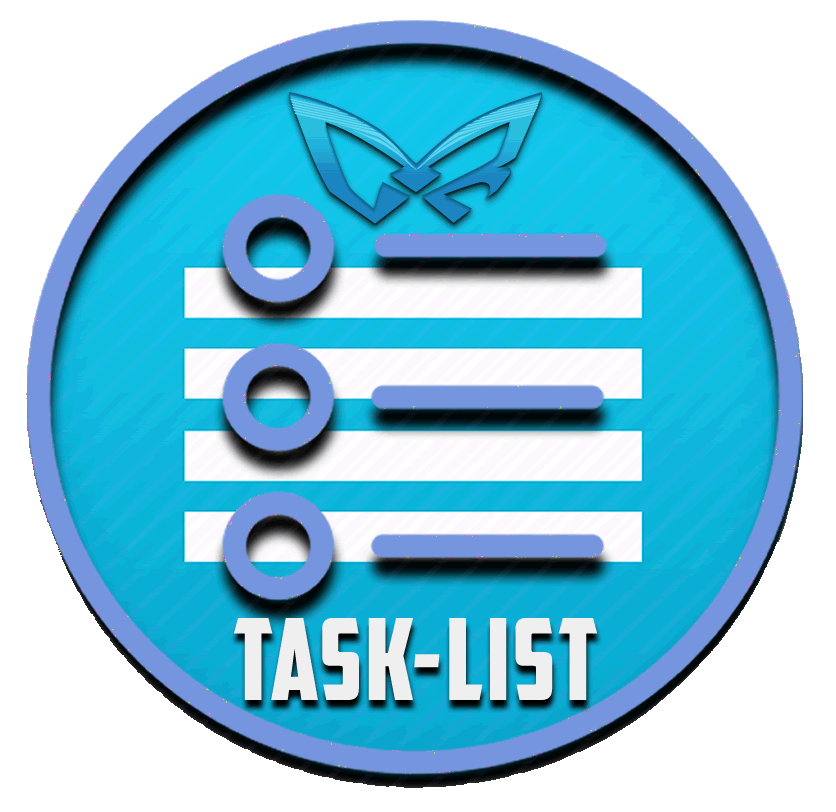
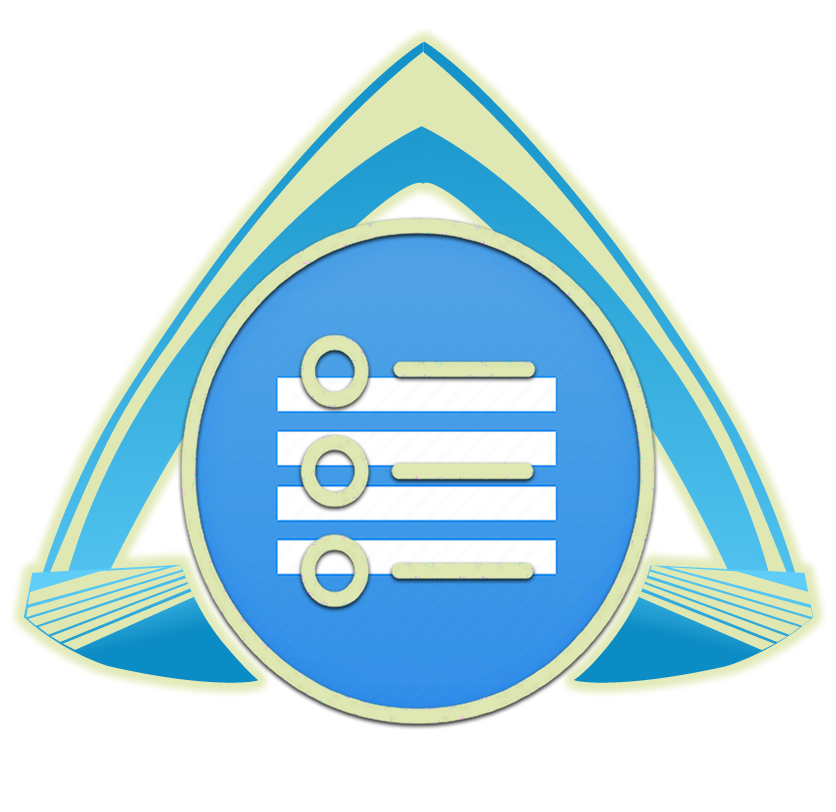
corrections update of badge, when task is edited by home

diff --git a/www/js/controllers/task.controller.js b/www/js/controllers/task.controller.js
@@ -1,6 +1,6 @@
 app.controller('TaskController', [
-    '$scope', '$ionicModal', '$ionicListDelegate', '$ionicPopup', '$ionicHistory','$state','$ionicPlatform','$cordovaBadge',
-    function($scope,$ionicModal,$ionicListDelegate,$ionicPopup, $ionicHistory,$state, $ionicPlatform, $cordovaBadge)
+    '$scope', '$ionicModal', '$ionicListDelegate', '$ionicPopup', '$ionicHistory','$state',
+    function($scope,$ionicModal,$ionicListDelegate,$ionicPopup, $ionicHistory,$state)
     {
         var task = new Task();
         var labels = app.appLabels;
@@ -11,37 +11,9 @@ app.controller('TaskController', [
         $scope.showRemove = false;    
         $scope.delPop = null;
 
-        $scope.addBadge = function(value)
-        {
-            if( window.cordova )
-            {                
-                $ionicPlatform.ready(function()
-                {
-                    $cordovaBadge.hasPermission().then(function(yes) 
-                    {
-                        var action;
-                        if( value == 0 ) 
-                            action = $cordovaBadge.clear();
-                        else 
-                            action = $cordovaBadge.set(value);
-
-                        action.then(function() {}, function(err) {
-                            $ionicPopup.alert({title: 'error', template: 'error on manage badge!'});
-                        });
-                    }, function(no) {
-                        $ionicPopup.alert({title: 'error', template: 'Without permission'});
-                    });
-                });
-            }            
-        };
-
         $scope.find = function()
         {
             $scope.tasks = task.getTasks();
-            var openeds = $scope.tasks.filter(function(row){ return row.situation == 1; });
-            // var openeds = $scope.tasks.filter(row => row.situation == 1);
-            
-            $scope.addBadge(openeds.length);
         }
         $scope.findOne = function()
         {
@@ -70,6 +42,7 @@ app.controller('TaskController', [
                     text: '<b>OK</b>',
                     type: 'button-positive', 
                     onTap: function(e){
+                        $scope.$root.openedTask = task.allOpened();
                         $ionicHistory.goBack();
                     }
                 }]
@@ -95,8 +68,9 @@ app.controller('TaskController', [
                             type: 'button-positive', 
                             onTap: function(e){
                                 $scope.delPop = null;
-                                task.remove(index);
-                                $scope.find();
+                                $scope.$root.openedTask = task.allOpened();
+                                task.remove(index);                                
+                                $scope.find();                                
                             }
                         }
                     ]

diff --git a/www/js/app.js b/www/js/app.js
@@ -5,10 +5,17 @@
 // the 2nd parameter is an array of 'requires'
 var app = angular.module('starter', ['ionic', 'ngCordova']);
 
-app.run(function($ionicPlatform, $ionicPopup) 
+app.run(function($ionicPlatform, $ionicPopup, $ionicLoading, $rootScope, $cordovaBadge) 
 {
-    $ionicPlatform.ready(function() {
-        if(window.cordova && window.cordova.plugins.Keyboard) {
+    $ionicPlatform.ready(function()
+    {
+        var scopeTask = new Task();
+        $rootScope.openedTask = scopeTask.allOpened();
+        scopeTask = null;
+        // $ionicLoading.show({template: 'Loading...',duration: 2000}).then(function(){});
+        
+        if(window.cordova && window.cordova.plugins.Keyboard) 
+        {
             // Hide the accessory bar by default (remove this to show the accessory bar above the keyboard
             // for form inputs)
             cordova.plugins.Keyboard.hideKeyboardAccessoryBar(true);
@@ -17,6 +24,23 @@ app.run(function($ionicPlatform, $ionicPopup)
             // from snapping when text inputs are focused. Ionic handles this internally for
             // a much nicer keyboard experience.
             cordova.plugins.Keyboard.disableScroll(true);
+
+            $rootScope.$watch('openedTask', function(value)
+            {
+                $cordovaBadge.hasPermission().then(function(yes) {
+                    var action;
+                    if( value == 0 ) 
+                        action = $cordovaBadge.clear();
+                    else 
+                        action = $cordovaBadge.set(value);
+
+                    action.then(function() {}, function(err) {
+                        $ionicPopup.alert({title: 'error', template: 'error on manage badge!'});
+                    });
+                }, function(no) {
+                    $ionicPopup.alert({title: 'error', template: 'Without permission'});
+                });                
+            })
         }
         if(window.StatusBar) {
             StatusBar.styleDefault();

diff --git a/www/css/style.css b/www/css/style.css
@@ -128,3 +128,71 @@ label.item.valid-lr {
 .no-decoration{
     text-decoration: none
 }
+/**
+* my own colors
+*/
+.button-green-light{
+    background-color: #2EDF7E !important;
+}
+.button-green-light2{
+    background-color: #2EAF7E !important;
+}
+.button-green, .label-green, .badge-green, .item-green,.bar-green {
+    /*background-color: #7EA97D !important;*/
+    background-color: #29B36E !important;    
+    /*color: #DFE8B2 !important;    */
+    /*text-shadow: 0 0 2px #222;*/
+    color: #FEFEFE !important;
+}
+
+.button-blue, 
+.bar-blue, 
+.item-blue, 
+.badge-blue, 
+.label-blue {
+    background-color: #3E7FAD !important;    
+    color: #FFF8F2 !important;    
+}
+.button-blue:hover, .bar-blue button:hover {
+    background-color: #4E8FBD !important;    
+    color: #FFF8F2 !important;
+}
+.button-blue-light, 
+.bar-blue-light, 
+.item-blue-light, 
+.badge-blue-light, 
+.label-blue-light{
+    background-color: #5E8FCD !important;
+    color: #FFF8F2 !important;
+}
+.item-blue span, .item-blue-light span{
+    background-color: #FEFEFE !important;
+    color: #5E8FCD !important;
+}
+.button-blue-inverse{
+    color: #FFF8F2 !important;
+    background-color: #5E8FCD !important;
+}
+.button-blue-inverse:hover, .button-blue-inverse:link, .button-blue-inverse:active {
+    color: #FFF8F2 !important;
+    background-color: #6E9FDD !important;
+    border: none
+}
+.bar-blue .title, 
+.bar-blue-light .title, 
+.bar-gold .title,
+.bar-blue button, 
+.bar-blue-light button {
+    color: #FFF8FF !important;
+    text-shadow: 0 1px 1px #2D2D2D;
+}
+.bar-gold{
+    background-color: #DFE8B2 !important;
+    color: #6E9FDD !important;
+}
+.label-blue, .label-blue-light{
+    border: 1px solid #FFF;
+}
+.right{
+    float: right
+}

diff --git a/www/templates/home.html b/www/templates/home.html
@@ -8,7 +8,7 @@
         <div class="card">
             <div class="item item-divider" ng-click="showCalendar=!showCalendar">
                 <i class="icon" ng-class="showCalendar ? 'ion-ios-calendar-outline' : 'ion-ios-calendar'"></i>
-                <span ng-bind="date | date:'fullDate'"></span>                
+                <span ng-bind="date | date:'fullDate'"></span>
             </div>
             <div class="" ng-show="showCalendar">
                 <mc-calendar></mc-calendar>
@@ -16,8 +16,8 @@
         </div>
 
         <div class="list card" ng-show="openTasks.length>0">
-            <div class="item item-positive">
-                <span class="badge badge-stable">{{openTasks.length}}</span>
+            <div class="item item-blue-light">
+                <span class="badge">{{openTasks.length}}</span>
                 Scheduled Tasks
             </div>
 
@@ -42,7 +42,7 @@
                         <div class="item-gray">
                             <div class="row">
                                 <div class="col col-50">
-                                    <a ng-href="#/app/taskView/{{task.current}}" class="label label-positive no-decoration" title="View">
+                                    <a ng-href="#/app/taskView/{{task.current}}" class="label label-blue no-decoration" title="View">
                                         <i class="ion-eye"></i> View
                                     </a>
                                     <render-label type="'status'" labels="statuses" index="task.status"></render-label>

diff --git a/www/templates/task/list.html b/www/templates/task/list.html
@@ -4,7 +4,7 @@
         Manage Task
     </ion-nav-title>
     <ion-nav-buttons side="right">
-        <a href="#/app/taskAdd" class="button button-positive">
+        <a href="#/app/taskAdd" class="button button-blue-inverse">
             <i class="ion-plus"></i>
         </a>
     </ion-nav-buttons>
@@ -15,7 +15,7 @@
                     <i class="icon ion-ios-search placeholder-icon"></i>
                     <input type="search" placeholder="Search" ng-model="filter">
                 </label>
-                <i class="badge badge-positive">{{filtered.length}}</i>
+                <i class="badge badge-blue">{{filtered.length}}</i>
             </div>
             
             <ion-list show-delete="showRemove">
@@ -23,7 +23,7 @@
                     <div class="row" ng-click="viewTask($index)">
                         <div class="col col-90">
                             <ion-delete-button class="ion-minus-circled" ng-click="remove($index,$event)"></ion-delete-button>
-                            <ion-option-button class="ion-edit button-positive" ui-sref="app.taskedit({'taskId':$index})"></ion-option-button>
+                            <ion-option-button class="ion-edit button-blue" ui-sref="app.taskedit({'taskId':$index})"></ion-option-button>
                             <!--<ion-option-button class="ion-eye button-stable" ui-sref="app.taskview({'taskId':$index})"></ion-option-button>-->
 
                             <h2 ng-bind="item.title"></h2>

diff --git a/www/templates/task/save.html b/www/templates/task/save.html
@@ -1,12 +1,12 @@
 <ion-view ng-init="findOne()">
-    <ion-nav-bar class="bar-stable">
+    <ion-nav-bar class="bar-blue-light">
         <ion-nav-back-button></ion-nav-back-button>
         <ion-nav-title>
             {{ formData.isNewRecord ? 'Create' : 'Update' }} Task
         </ion-nav-title>
     </ion-nav-bar>
     <ion-nav-buttons side="right">
-        <a href="#/app/taskView/{{formData.current}}" class="button button-positive" title="View" ng-if="formData.isNewRecord==false">
+        <a href="#/app/taskView/{{formData.current}}" class="button button-blue-inverse" title="View" ng-if="formData.isNewRecord==false">
             <i class="ion-eye"></i>
         </a>
     </ion-nav-buttons>
@@ -57,7 +57,7 @@
                     </div>
                 </label>
             </label>
-            <button type="submit" class="button button-block button-positive" ng-disabled="validate()">
+            <button type="submit" class="button button-block button-blue" ng-disabled="validate()">
                 Save
             </button>
         </form>

diff --git a/www/templates/menu.html b/www/templates/menu.html
@@ -1,17 +1,17 @@
 <ion-side-menus enable-menu-with-back-views="true">
     <ion-side-menu-content>
-        <ion-nav-bar class="bar-stable">
+        <ion-nav-bar class="bar-blue-light">
             <ion-nav-back-button></ion-nav-back-button>
 
             <ion-nav-buttons side="left">
-                <button class="button button-icon button-clear ion-navicon" menu-toggle="left"></button>
+                <button class="button button-icon button-blue-inverse ion-navicon" menu-toggle="left"></button>
             </ion-nav-buttons>
         </ion-nav-bar>
         <ion-nav-view name="menuContent"></ion-nav-view>
     </ion-side-menu-content>
 
     <ion-side-menu side="left">
-        <ion-header-bar class="bar-positive">
+        <ion-header-bar class="bar-gold">
             <h1 class="title">Menu</h1>
         </ion-header-bar>
         <ion-content>

diff --git a/www/js/controllers/home.controller.js b/www/js/controllers/home.controller.js
@@ -1,9 +1,15 @@
 app
-.controller('HomeController', ["$scope", "$rootScope", "$filter", function ($scope, $rootScope, $filter) {
+.controller('HomeController', ["$scope", "$rootScope", "$filter", "$ionicLoading", function ($scope, $rootScope, $filter, $ionicLoading) {
     $scope.date = new Date();
     $scope.showCalendar = true;
     var task = new Task();
     
+    // $ionicLoading
+    // .show({template: 'Loading...',duration: 1000})
+    // .then(function(){
+    //     console.log("The loading indicator is now displayed");
+    // });
+
     $scope.findOpen = function(){
         $scope.openTasks = task.getTasks().filter(function(row,i)
         {

diff --git a/www/templates/task/view.html b/www/templates/task/view.html
@@ -1,12 +1,12 @@
 <ion-view ng-init="findOne()" cache-view="false">
-    <ion-nav-bar class="bar-stable">
+    <ion-nav-bar class="bar-blue-light">
         <ion-nav-back-button></ion-nav-back-button>
         <ion-nav-title>
             {{formData.title}}
         </ion-nav-title>
     </ion-nav-bar>
     <ion-nav-buttons side="right">
-        <a href="#/app/taskEdit/{{formData.current}}" class="button button-positive" title="Edit">
+        <a href="#/app/taskEdit/{{formData.current}}" class="button button-blue-inverse" title="Edit">
             <i class="ion-edit"></i>
         </a>
     </ion-nav-buttons>

diff --git a/www/js/models/Task.js b/www/js/models/Task.js
@@ -43,10 +43,14 @@ function Task()
     {
         return angular.extend({}, fields, data || {});
     };
+    this.allOpened = function()
+    {
+        var openeds = this.getTasks().filter(function(row){ return row.situation == 1; });
+        return openeds.length;
+    }
 
     function store(data)
     {
-        console.log('save');
         localStorage.setItem('task', angular.toJson(data));
     }
     
